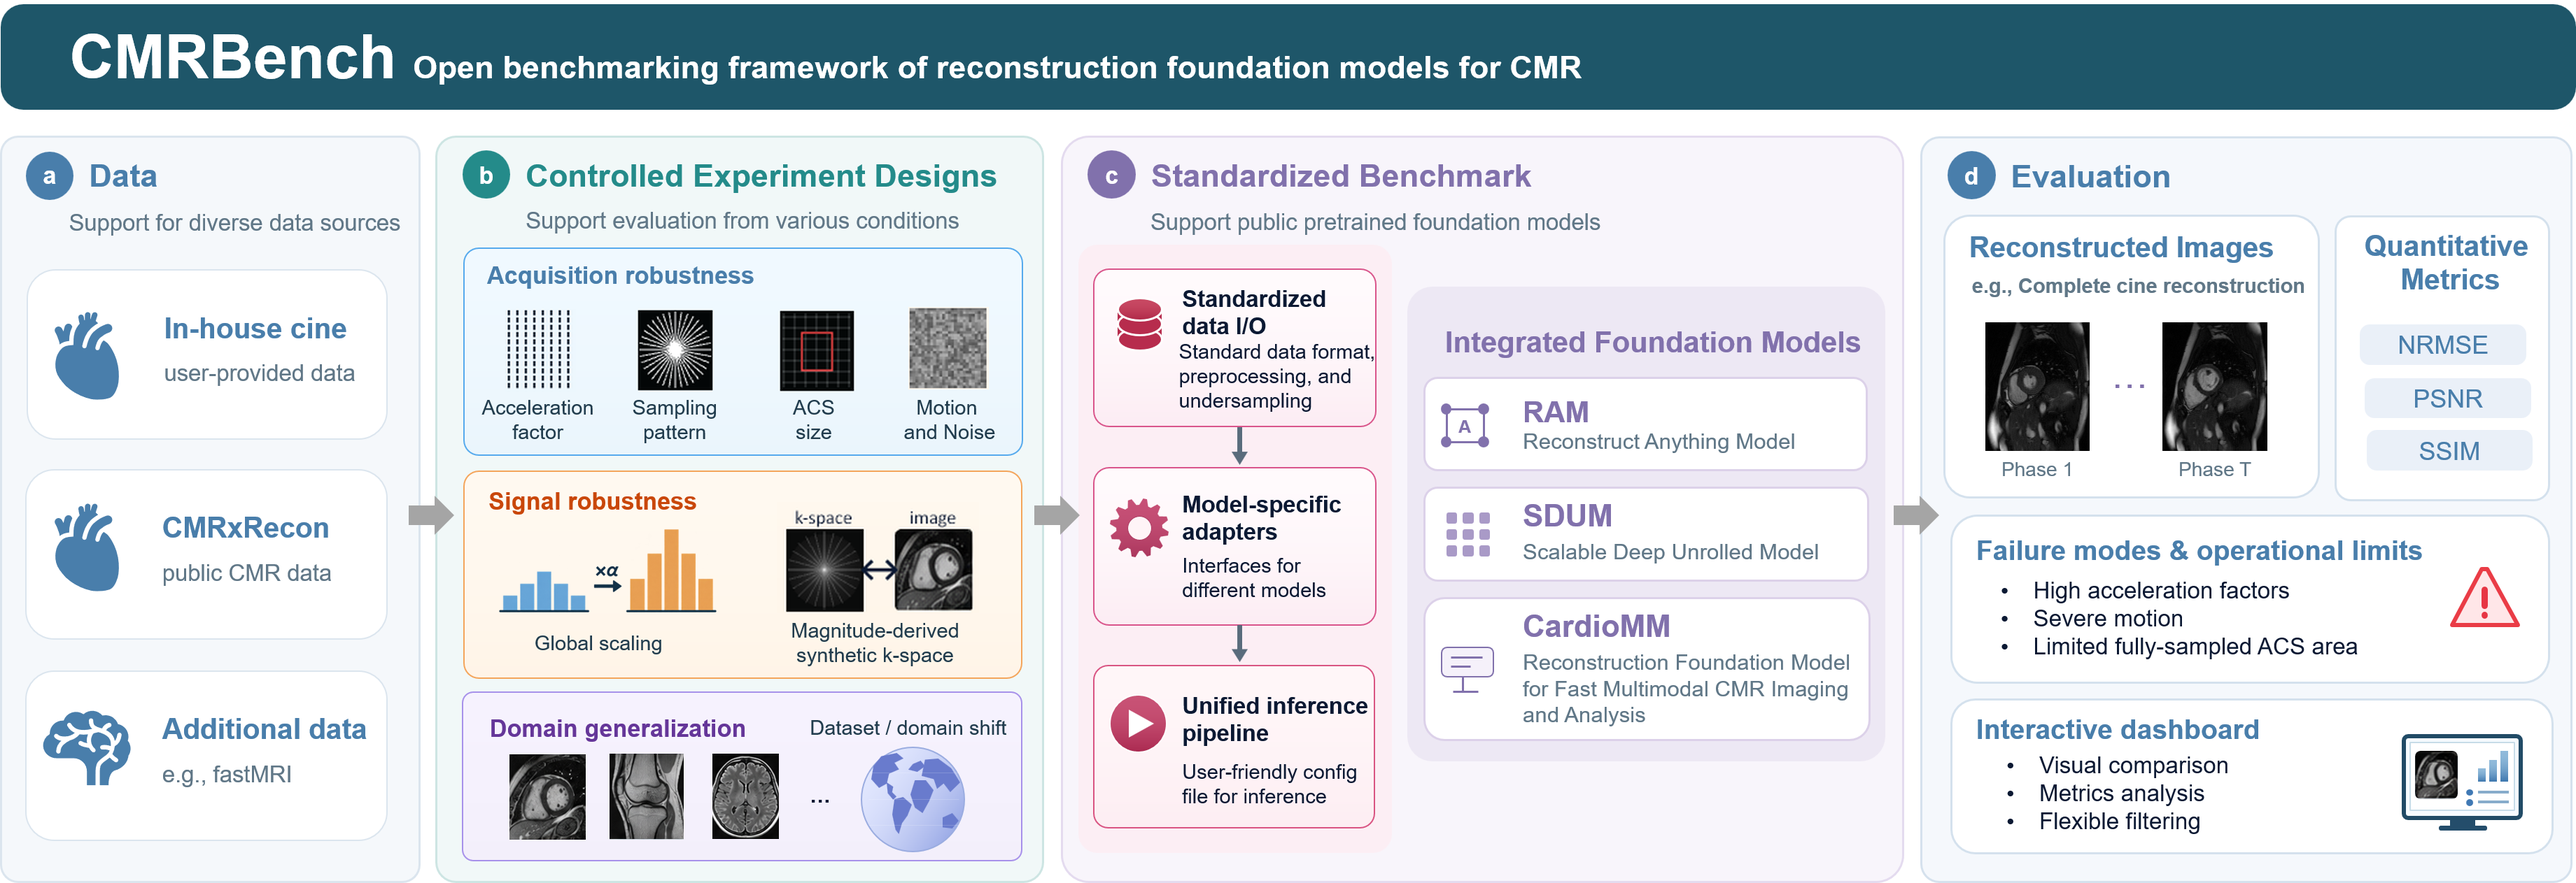
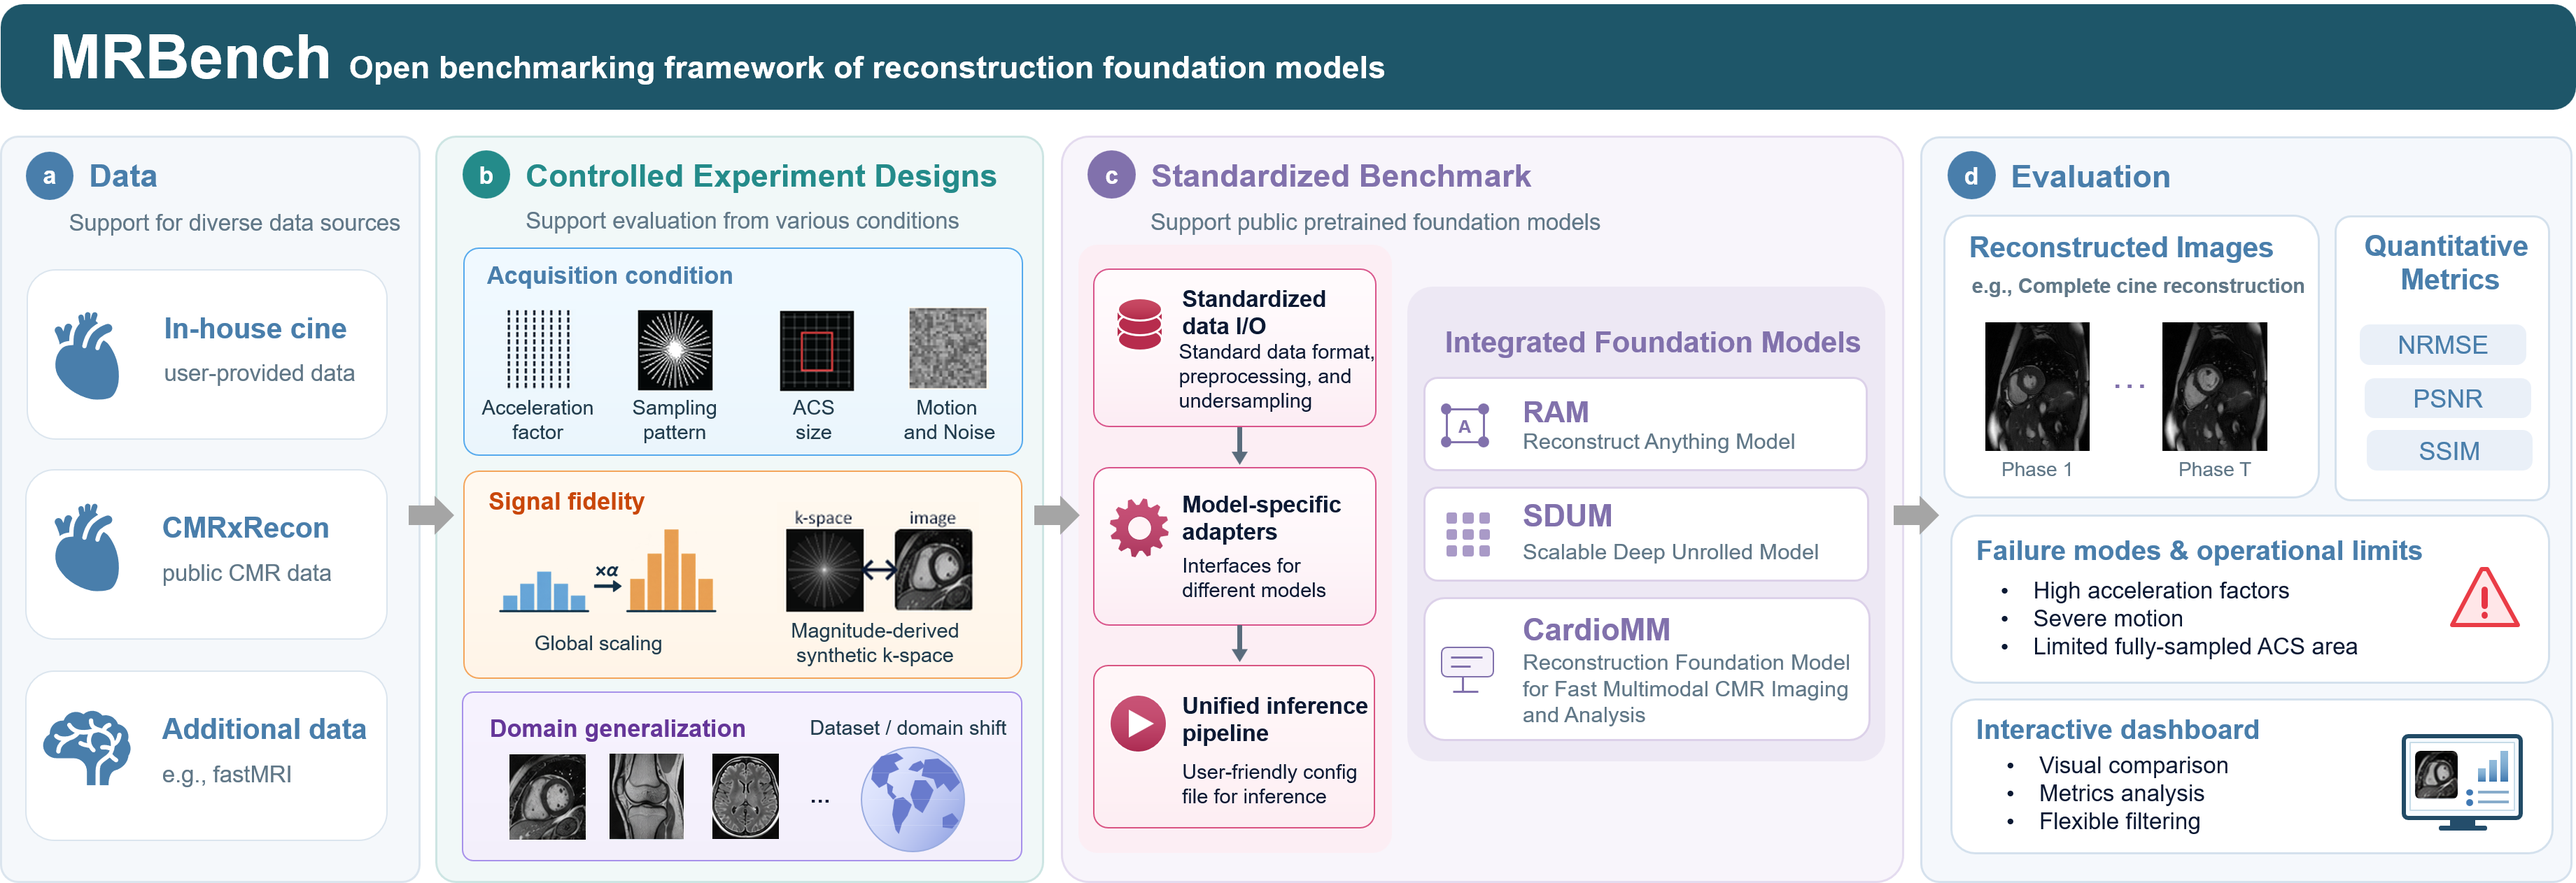
Update MRBench dashboard

diff --git a/website/styles.css b/website/styles.css
@@ -7,9 +7,14 @@
   --paper: #f7f9fa;
   --white: #fff;
 }
+.section-divider {
+  margin: 0 0 28px;
+  border: 0;
+  border-top: 1px solid var(--line);
+}
 /* The approved figure remains a single, unmodified image. Only links are overlaid. */
 .framework-section {
-  margin-bottom: 38px;
+  margin-bottom: 24px;
 }
 .framework-figure {
   margin: 0;
@@ -198,6 +203,14 @@ main {
 .page-heading {
   padding: 48px 0 32px;
 }
+.overview-heading h1 {
+  max-width: none;
+  font-size: 36px;
+  line-height: 1.25;
+  letter-spacing: -0.6px;
+  text-align: left;
+  text-align-last: start;
+}
 .page-heading .intro {
   font-size: 18px;
   line-height: 1.7;
@@ -206,6 +219,15 @@ main {
 }
 .page-heading h1:last-child {
   margin-bottom: 0;
+}
+.page-heading .welcome {
+  max-width: none;
+  padding: 20px 24px;
+  border: 1px solid #e0e8ef;
+  border-radius: 14px;
+  background: #eef3f7;
+  text-align: justify;
+  text-align-last: start;
 }
 .welcome strong {
   color: var(--ink);
@@ -800,8 +822,15 @@ select {
   .page-heading {
     padding: 34px 0 26px;
   }
+  .overview-heading h1 {
+    font-size: 26px;
+  }
   .page-heading .intro {
     font-size: 15px;
+  }
+  .page-heading .welcome {
+    padding: 16px 18px;
+    font-size: 16px;
   }
   .eyebrow {
     font-size: 10px;

diff --git a/website/index.html b/website/index.html
@@ -5,10 +5,10 @@
     <meta name="viewport" content="width=device-width, initial-scale=1" />
     <meta
       name="description"
-      content="MRBench benchmarks foundation models for MRI reconstruction across acquisition conditions, signal representations and imaging domains."
+      content="MRBench evaluates the robustness and generalization of MRI reconstruction foundation models in cardiovascular MR."
     />
     <title>MRBench: Benchmarking Foundation Models for MRI Reconstruction</title>
-    <link rel="stylesheet" href="styles.css?v=mrbench-views" />
+    <link rel="stylesheet" href="styles.css?v=mrbench-simple-dividers" />
   </head>
   <body>
     <a class="skip-link" href="#application">Skip to content</a>

diff --git a/website/docs/framework-overview.md b/website/docs/framework-overview.md
@@ -4,12 +4,12 @@ The approved framework is shown above the original experiment matrix. It is one 
 
 ## Figure provenance
 
-The authoritative source is `E:/PhD/ISMRM_27/Figures/Fig_1_Workflow.png`. It was copied without re-encoding to `assets/framework/Fig_1_Workflow.png`.
+The authoritative source is `E:/PhD/paper-CMRBench/Figures/Framework.png`. The supplied updated figure was copied without re-encoding to the existing `assets/framework/Fig_1_Workflow.png` asset, also used by the root README.
 
 - Native dimensions: **3681 × 1263**.
[1 lines of base64/hex data omitted]
-- `E:/PhD/paper-CMRBench/framework.pptx` was inspected as a ZIP/XML package for slide text and shape geometry. It was not edited, rendered into a replacement figure or distributed with the website.
-- PPT and PNG text differ in places. The PNG is authoritative: its **CMRBench**, **Acquisition robustness** and **Signal robustness** labels remain exactly as supplied. The dashboard's surrounding MRBench branding is unchanged.
[1 lines of base64/hex data omitted]
+- The current supplied PNG contains **MRBench**, **Acquisition condition** and **Signal fidelity**. All pixels are preserved as supplied; no raster editing or PPT export is performed.
+- The original PPT was inspected when establishing the overlay. This replacement has the same dimensions and matching card geometry, so the ten native-coordinate rectangles and route targets are retained.
 
 The image scales proportionally on desktop and laptop screens. Below its minimum useful display width, only the figure's container scrolls horizontally. It is never cropped, stretched or reorganized into a new layout. A short mobile instruction explains the horizontal scroll.
 
